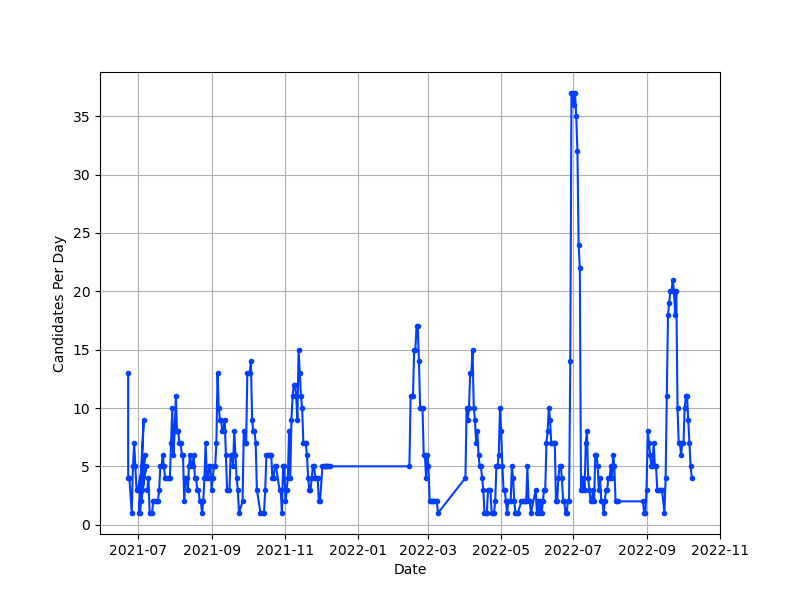
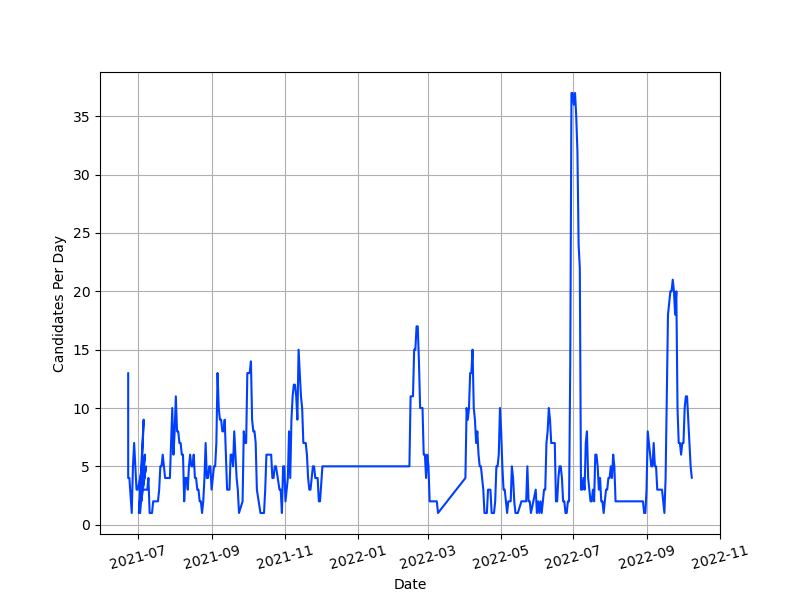
started implementing plotstyle function
I think adding a smoothed plot for candidates per day would look good

diff --git a/stats.py b/stats.py
@@ -92,7 +92,7 @@ def plotDir(name,outdir=args.outdir,ext=".png",): ## might be good to organize d
     return(filepath)
 
 ## function is currently unused/incomplete, wanted to at least start it and make a commit with it
-def plot_style(type, **kwargs): ## should add an option to pass kwargs to the plot function
+def plotstyle(type=None, **kwargs): ## should add an option to pass kwargs to the plot function
     '''
     Sets the style of the plots to be consistent across the paper using matplotlib's style sheets
     
@@ -103,8 +103,8 @@ def plot_style(type, **kwargs): ## should add an option to pass kwargs to the pl
     fig, ax = plt.subplots(**kwargs) ## not super sure on this implementation
     
     plt.style.use('seaborn-whitegrid')
-    plt.rcParams['font.family'] = 'serif'
-    plt.rcParams['font.serif'] = 'Times New Roman'
+    #plt.rcParams['font.family'] = 'serif'
+    #plt.rcParams['font.serif'] = 'Times New Roman'
     plt.rcParams['font.size'] = 12
     plt.rcParams['axes.labelsize'] = 12
     plt.rcParams['axes.labelweight'] = 'bold'
@@ -238,7 +238,7 @@ def get_dataframe(candDir=args.candDir, fitDir=args.fitDir, models=args.models, 
     df = pd.DataFrame(columns=col) ## create empty dataframe with columns
     ## set the type for the columns that will be added to the dataframe
     df['day'] = df['day'].astype('str')
-    df['startDate'] = df['startDate'].astype(np.datetime64)
+    df['startDate'] = df['startDate'].astype(np.datetime64) ## could use this as a way to set bounds on the data that's collected ahead of time
     df['stopDate'] = df['stopDate'].astype(np.datetime64) ## going to use convention that stopDate is the day to be plotted, as that corresponds to the day of the last observation
     df['dayPath'] = df['dayPath'].astype('str')
     df['cand'] = df['cand'].astype('str')
@@ -334,7 +334,7 @@ def plotDailyCand(df, save=True):
     save: boolean to determine whether to save the plot or not
     '''
 
-    ## get count of days and unique dates
+    ## get count of days and unique dates for plotting
     dayList = df['day'].unique()
     dateIdx = df['day'].drop_duplicates().index
     dateList = df['stopDate'][dateIdx] ## this is the date of the last observations made for the fitting
@@ -347,15 +347,17 @@ def plotDailyCand(df, save=True):
     print('numDaily: %s'%numDaily) if args.verbose else None
     print() if args.verbose else None
     
-    fig, ax = plt.subplots(figsize=(8,6), facecolor='white')
-    ax.plot(dateList, numDaily,marker='.')
+    ## plot number of candidates per day
+    fig, ax = plotstyle(figsize=(8,6), facecolor='white') #plt.subplots(figsize=(8,6), facecolor='white')
+    ax.plot(dateList, numDaily)
+    plt.xticks(rotation=15)
     ax.set_xlabel("Date") 
     ax.set_ylabel('Candidates Per Day')
     plt.savefig(plotDir("numDailyCand")) if save else plt.clf()
     plt.clf()
     
     ## plot histogram of number of candidates per day
-    fig, ax = plt.subplots(figsize=(10,6), facecolor='white')
+    fig, ax = plotstyle(figsize=(10,6), facecolor='white')
     sns.histplot(numDaily, kde=True, bins=numDaily.max(), ax=ax) ## I think having bins equal to the max number of candidates per day looks best
     ax.set_xlabel("Candidates Per Day")
     ax.set_ylabel('Count')
